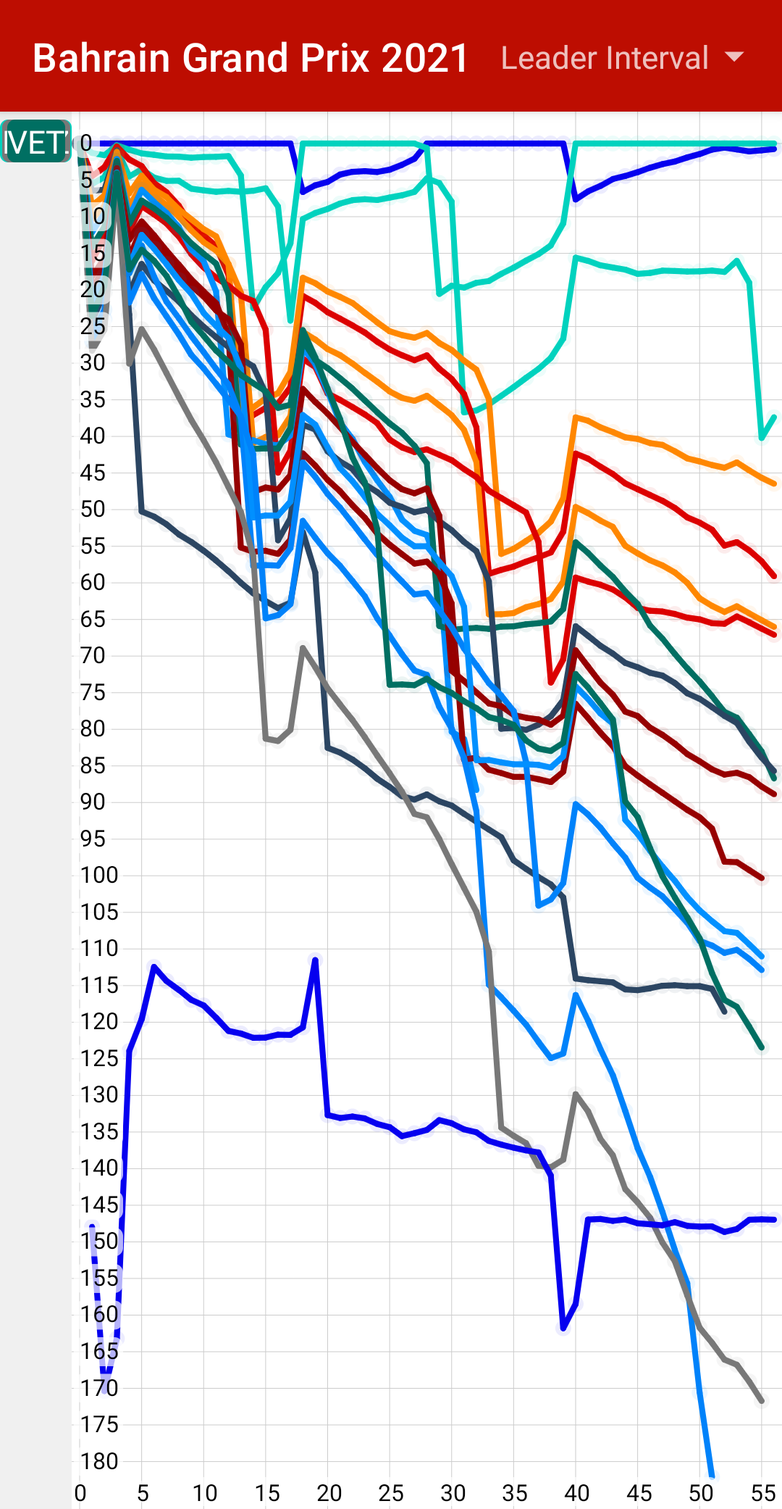
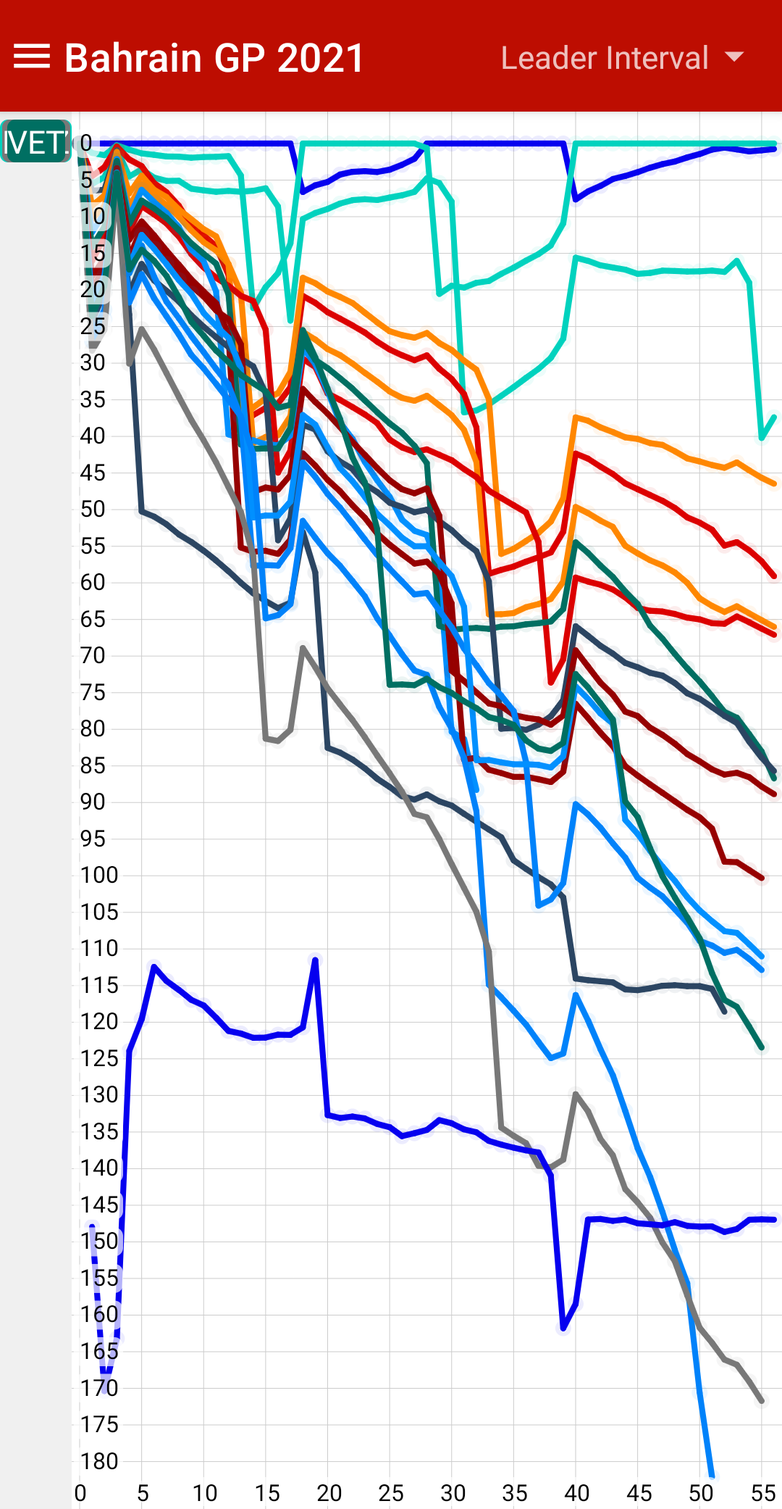
118 add hamburger button for driver selection in charts (#149)
* hamburger menu for driver chart

* 147 preference screen is causing crash (#148)

* add preference screen in UI Test to reproduce bug

* Rewrite preferences screen

* Remove ComposePreferences

* Remove ComposePreferences

* Set Notify Race default to ON

* Spotless format

* Generate version

* remove about screenshot

* Delete com.jventrib.formulainfo.ui.MainScreenTest_about.png

* Add Notifications header

* 118-add-hamburger-button-for-driver-selection-in-charts

* Fix Spotless

Changed region(s): [[0.0306, 0.0312, 0.6111, 0.0624]]

diff --git a/app/src/main/java/com/jventrib/formulainfo/data/sample/ResultSample.kt b/app/src/main/java/com/jventrib/formulainfo/data/sample/ResultSample.kt
@@ -9,7 +9,8 @@ import com.jventrib.formulainfo.model.mapper.ResultMapper
 
 object ResultSample {
 
-    private const val resultContent = "{\"MRData\":{\"xmlns\":\"http:\\/\\/ergast.com\\/mrd\\/1.4\",\"series\":\"f1\",\"url\":\"http://ergast.com/api/f1/2021/1/results.json\",\"limit\":\"30\",\"offset\":\"0\",\"total\":\"20\",\"RaceTable\":{\"season\":\"2021\",\"round\":\"1\",\"Races\":[{\"season\":\"2021\",\"round\":\"1\",\"url\":\"https:\\/\\/en.wikipedia.org\\/wiki\\/2021_Bahrain_Grand_Prix\",\"raceName\":\"Bahrain Grand Prix\",\"Circuit\":{\"circuitId\":\"bahrain\",\"url\":\"http://en.wikipedia.org/wiki/Bahrain_International_Circuit\",\"circuitName\":\"Bahrain International Circuit\",\"Location\":{\"lat\":\"26.0325\",\"long\":\"50.5106\",\"locality\":\"Sakhir\",\"country\":\"Bahrain\"}},\"date\":\"2021-03-28\",\"time\":\"15:00:00Z\",\"Results\":[{\"number\":\"44\",\"position\":\"1\",\"positionText\":\"1\",\"points\":\"25\",\"Driver\":{\"driverId\":\"hamilton\",\"permanentNumber\":\"44\",\"code\":\"HAM\",\"url\":\"http:\\/\\/en.wikipedia.org\\/wiki\\/Lewis_Hamilton\",\"givenName\":\"Lewis\",\"familyName\":\"Hamilton\",\"dateOfBirth\":\"1985-01-07\",\"nationality\":\"British\"},\"Constructor\":{\"constructorId\":\"mercedes\",\"url\":\"http:\\/\\/en.wikipedia.org\\/wiki\\/Mercedes-Benz_in_Formula_One\",\"name\":\"Mercedes\",\"nationality\":\"German\"},\"grid\":\"2\",\"laps\":\"56\",\"status\":\"Finished\",\"Time\":{\"millis\":\"5523897\",\"time\":\"1:32:03.897\"},\"FastestLap\":{\"rank\":\"4\",\"lap\":\"44\",\"Time\":{\"time\":\"1:34.015\"},\"AverageSpeed\":{\"units\":\"kph\",\"speed\":\"207.235\"}}},{\"number\":\"33\",\"position\":\"2\",\"positionText\":\"2\",\"points\":\"18\",\"Driver\":{\"driverId\":\"max_verstappen\",\"permanentNumber\":\"33\",\"code\":\"VER\",\"url\":\"http:\\/\\/en.wikipedia.org\\/wiki\\/Max_Verstappen\",\"givenName\":\"Max\",\"familyName\":\"Verstappen\",\"dateOfBirth\":\"1997-09-30\",\"nationality\":\"Dutch\"},\"Constructor\":{\"constructorId\":\"red_bull\",\"url\":\"http:\\/\\/en.wikipedia.org\\/wiki\\/Red_Bull_Racing\",\"name\":\"Red Bull\",\"nationality\":\"Austrian\"},\"grid\":\"1\",\"laps\":\"56\",\"status\":\"Finished\",\"Time\":{\"millis\":\"5524642\",\"time\":\"+0.745\"},\"FastestLap\":{\"rank\":\"2\",\"lap\":\"41\",\"Time\":{\"time\":\"1:33.228\"},\"AverageSpeed\":{\"units\":\"kph\",\"speed\":\"208.984\"}}},{\"number\":\"77\",\"position\":\"3\",\"positionText\":\"3\",\"points\":\"16\",\"Driver\":{\"driverId\":\"bottas\",\"permanentNumber\":\"77\",\"code\":\"BOT\",\"url\":\"http:\\/\\/en.wikipedia.org\\/wiki\\/Valtteri_Bottas\",\"givenName\":\"Valtteri\",\"familyName\":\"Bottas\",\"dateOfBirth\":\"1989-08-28\",\"nationality\":\"Finnish\"},\"Constructor\":{\"constructorId\":\"mercedes\",\"url\":\"http:\\/\\/en.wikipedia.org\\/wiki\\/Mercedes-Benz_in_Formula_One\",\"name\":\"Mercedes\",\"nationality\":\"German\"},\"grid\":\"3\",\"laps\":\"56\",\"status\":\"Finished\",\"Time\":{\"millis\":\"5561280\",\"time\":\"+37.383\"},\"FastestLap\":{\"rank\":\"1\",\"lap\":\"56\",\"Time\":{\"time\":\"1:32.090\"},\"AverageSpeed\":{\"units\":\"kph\",\"speed\":\"211.566\"}}},{\"number\":\"4\",\"position\":\"4\",\"positionText\":\"4\",\"points\":\"12\",\"Driver\":{\"driverId\":\"norris\",\"permanentNumber\":\"4\",\"code\":\"NOR\",\"url\":\"http:\\/\\/en.wikipedia.org\\/wiki\\/Lando_Norris\",\"givenName\":\"Lando\",\"familyName\":\"Norris\",\"dateOfBirth\":\"1999-11-13\",\"nationality\":\"British\"},\"Constructor\":{\"constructorId\":\"mclaren\",\"url\":\"http:\\/\\/en.wikipedia.org\\/wiki\\/McLaren\",\"name\":\"McLaren\",\"nationality\":\"British\"},\"grid\":\"7\",\"laps\":\"56\",\"status\":\"Finished\",\"Time\":{\"millis\":\"5570363\",\"time\":\"+46.466\"},\"FastestLap\":{\"rank\":\"6\",\"lap\":\"38\",\"Time\":{\"time\":\"1:34.396\"},\"AverageSpeed\":{\"units\":\"kph\",\"speed\":\"206.398\"}}},{\"number\":\"11\",\"position\":\"5\",\"positionText\":\"5\",\"points\":\"10\",\"Driver\":{\"driverId\":\"perez\",\"permanentNumber\":\"11\",\"code\":\"PER\",\"url\":\"http:\\/\\/en.wikipedia.org\\/wiki\\/Sergio_P%C3%A9rez\",\"givenName\":\"Sergio\",\"familyName\":\"Pérez\",\"dateOfBirth\":\"1990-01-26\",\"nationality\":\"Mexican\"},\"Constructor\":{\"constructorId\":\"red_bull\",\"url\":\"http:\\/\\/en.wikipedia.org\\/wiki\\/Red_Bull_Racing\",\"name\":\"Red Bull\",\"nationality\":\"Austrian\"},\"grid\":\"0\",\"laps\":\"56\",\"status\":\"Finished\",\"Time\":{\"millis\":\"5575944\",\"time\":\"+52.047\"},\"FastestLap\":{\"rank\":\"3\",\"lap\":\"44\",\"Time\":{\"time\":\"1:33.970\"},\"AverageSpeed\":{\"units\":\"kph\",\"speed\":\"207.334\"}}},{\"number\":\"16\",\"position\":\"6\",\"positionText\":\"6\",\"points\":\"8\",\"Driver\":{\"driverId\":\"leclerc\",\"permanentNumber\":\"16\",\"code\":\"LEC\",\"url\":\"http:\\/\\/en.wikipedia.org\\/wiki\\/Charles_Leclerc\",\"givenName\":\"Charles\",\"familyName\":\"Leclerc\",\"dateOfBirth\":\"1997-10-16\",\"nationality\":\"Monegasque\"},\"Constructor\":{\"constructorId\":\"ferrari\",\"url\":\"http:\\/\\/en.wikipedia.org\\/wiki\\/Scuderia_Ferrari\",\"name\":\"Ferrari\",\"nationality\":\"Italian\"},\"grid\":\"4\",\"laps\":\"56\",\"status\":\"Finished\",\"Time\":{\"millis\":\"5582987\",\"time\":\"+59.090\"},\"FastestLap\":{\"rank\":\"11\",\"lap\":\"39\",\"Time\":{\"time\":\"1:34.988\"},\"AverageSpeed\":{\"units\":\"kph\",\"speed\":\"205.112\"}}},{\"number\":\"3\",\"position\":\"7\",\"positionText\":\"7\",\"points\":\"6\",\"Driver\":{\"driverId\":\"ricciardo\",\"permanentNumber\":\"3\",\"code\":\"RIC\",\"url\":\"http:\\/\\/en.wikipedia.org\\/wiki\\/Daniel_Ricciardo\",\"givenName\":\"Daniel\",\"familyName\":\"Ricciardo\",\"dateOfBirth\":\"1989-07-01\",\"nationality\":\"Australian\"},\"Constructor\":{\"constructorId\":\"mclaren\",\"url\":\"http:\\/\\/en.wikipedia.org\\/wiki\\/McLaren\",\"name\":\"McLaren\",\"nationality\":\"British\"},\"grid\":\"6\",\"laps\":\"56\",\"status\":\"Finished\",\"Time\":{\"millis\":\"5589901\",\"time\":\"+66.004\"},\"FastestLap\":{\"rank\":\"10\",\"lap\":\"36\",\"Time\":{\"time\":\"1:34.932\"},\"AverageSpeed\":{\"units\":\"kph\",\"speed\":\"205.233\"}}},{\"number\":\"55\",\"position\":\"8\",\"positionText\":\"8\",\"points\":\"4\",\"Driver\":{\"driverId\":\"sainz\",\"permanentNumber\":\"55\",\"code\":\"SAI\",\"url\":\"http:\\/\\/en.wikipedia.org\\/wiki\\/Carlos_Sainz_Jr.\",\"givenName\":\"Carlos\",\"familyName\":\"Sainz\",\"dateOfBirth\":\"1994-09-01\",\"nationality\":\"Spanish\"},\"Constructor\":{\"constructorId\":\"ferrari\",\"url\":\"http:\\/\\/en.wikipedia.org\\/wiki\\/Scuderia_Ferrari\",\"name\":\"Ferrari\",\"nationality\":\"Italian\"},\"grid\":\"8\",\"laps\":\"56\",\"status\":\"Finished\",\"Time\":{\"millis\":\"5590997\",\"time\":\"+67.100\"},\"FastestLap\":{\"rank\":\"7\",\"lap\":\"48\",\"Time\":{\"time\":\"1:34.509\"},\"AverageSpeed\":{\"units\":\"kph\",\"speed\":\"206.151\"}}},{\"number\":\"22\",\"position\":\"9\",\"positionText\":\"9\",\"points\":\"2\",\"Driver\":{\"driverId\":\"tsunoda\",\"permanentNumber\":\"22\",\"code\":\"TSU\",\"url\":\"http:\\/\\/en.wikipedia.org\\/wiki\\/Yuki_Tsunoda\",\"givenName\":\"Yuki\",\"familyName\":\"Tsunoda\",\"dateOfBirth\":\"2000-05-11\",\"nationality\":\"Japanese\"},\"Constructor\":{\"constructorId\":\"alphatauri\",\"url\":\"http:\\/\\/en.wikipedia.org\\/wiki\\/Scuderia_AlphaTauri\",\"name\":\"AlphaTauri\",\"nationality\":\"Italian\"},\"grid\":\"13\",\"laps\":\"56\",\"status\":\"Finished\",\"Time\":{\"millis\":\"5609589\",\"time\":\"+85.692\"},\"FastestLap\":{\"rank\":\"8\",\"lap\":\"38\",\"Time\":{\"time\":\"1:34.761\"},\"AverageSpeed\":{\"units\":\"kph\",\"speed\":\"205.603\"}}},{\"number\":\"18\",\"position\":\"10\",\"positionText\":\"10\",\"points\":\"1\",\"Driver\":{\"driverId\":\"stroll\",\"permanentNumber\":\"18\",\"code\":\"STR\",\"url\":\"http:\\/\\/en.wikipedia.org\\/wiki\\/Lance_Stroll\",\"givenName\":\"Lance\",\"familyName\":\"Stroll\",\"dateOfBirth\":\"1998-10-29\",\"nationality\":\"Canadian\"},\"Constructor\":{\"constructorId\":\"aston_martin\",\"url\":\"http:\\/\\/en.wikipedia.org\\/wiki\\/Aston_Martin_in_Formula_One\",\"name\":\"Aston Martin\",\"nationality\":\"British\"},\"grid\":\"10\",\"laps\":\"56\",\"status\":\"Finished\",\"Time\":{\"millis\":\"5610610\",\"time\":\"+86.713\"},\"FastestLap\":{\"rank\":\"9\",\"lap\":\"31\",\"Time\":{\"time\":\"1:34.865\"},\"AverageSpeed\":{\"units\":\"kph\",\"speed\":\"205.378\"}}},{\"number\":\"7\",\"position\":\"11\",\"positionText\":\"11\",\"points\":\"0\",\"Driver\":{\"driverId\":\"raikkonen\",\"permanentNumber\":\"7\",\"code\":\"RAI\",\"url\":\"http:\\/\\/en.wikipedia.org\\/wiki\\/Kimi_R%C3%A4ikk%C3%B6nen\",\"givenName\":\"Kimi\",\"familyName\":\"Räikkönen\",\"dateOfBirth\":\"1979-10-17\",\"nationality\":\"Finnish\"},\"Constructor\":{\"constructorId\":\"alfa\",\"url\":\"http:\\/\\/en.wikipedia.org\\/wiki\\/Alfa_Romeo_in_Formula_One\",\"name\":\"Alfa Romeo\",\"nationality\":\"Swiss\"},\"grid\":\"14\",\"laps\":\"56\",\"status\":\"Finished\",\"Time\":{\"millis\":\"5612761\",\"time\":\"+88.864\"},\"FastestLap\":{\"rank\":\"14\",\"lap\":\"45\",\"Time\":{\"time\":\"1:35.192\"},\"AverageSpeed\":{\"units\":\"kph\",\"speed\":\"204.672\"}}},{\"number\":\"99\",\"position\":\"12\",\"positionText\":\"12\",\"points\":\"0\",\"Driver\":{\"driverId\":\"giovinazzi\",\"permanentNumber\":\"99\",\"code\":\"GIO\",\"url\":\"http:\\/\\/en.wikipedia.org\\/wiki\\/Antonio_Giovinazzi\",\"givenName\":\"Antonio\",\"familyName\":\"Giovinazzi\",\"dateOfBirth\":\"1993-12-14\",\"nationality\":\"Italian\"},\"Constructor\":{\"constructorId\":\"alfa\",\"url\":\"http:\\/\\/en.wikipedia.org\\/wiki\\/Alfa_Romeo_in_Formula_One\",\"name\":\"Alfa Romeo\",\"nationality\":\"Swiss\"},\"grid\":\"12\",\"laps\":\"55\",\"status\":\"+1 Lap\",\"FastestLap\":{\"rank\":\"13\",\"lap\":\"32\",\"Time\":{\"time\":\"1:35.122\"},\"AverageSpeed\":{\"units\":\"kph\",\"speed\":\"204.823\"}}},{\"number\":\"31\",\"position\":\"13\",\"positionText\":\"13\",\"points\":\"0\",\"Driver\":{\"driverId\":\"ocon\",\"permanentNumber\":\"31\",\"code\":\"OCO\",\"url\":\"http:\\/\\/en.wikipedia.org\\/wiki\\/Esteban_Ocon\",\"givenName\":\"Esteban\",\"familyName\":\"Ocon\",\"dateOfBirth\":\"1996-09-17\",\"nationality\":\"French\"},\"Constructor\":{\"constructorId\":\"alpine\",\"url\":\"http:\\/\\/en.wikipedia.org\\/wiki\\/Alpine_F1_Team\",\"name\":\"Alpine F1 Team\",\"nationality\":\"French\"},\"grid\":\"16\",\"laps\":\"55\",\"status\":\"+1 Lap\",\"FastestLap\":{\"rank\":\"15\",\"lap\":\"33\",\"Time\":{\"time\":\"1:35.250\"},\"AverageSpeed\":{\"units\":\"kph\",\"speed\":\"204.548\"}}},{\"number\":\"63\",\"position\":\"14\",\"positionText\":\"14\",\"points\":\"0\",\"Driver\":{\"driverId\":\"russell\",\"permanentNumber\":\"63\",\"code\":\"RUS\",\"url\":\"http:\\/\\/en.wikipedia.org\\/wiki\\/George_Russell_%28racing_driver%29\",\"givenName\":\"George\",\"familyName\":\"Russell\",\"dateOfBirth\":\"1998-02-15\",\"nationality\":\"British\"},\"Constructor\":{\"constructorId\":\"williams\",\"url\":\"http:\\/\\/en.wikipedia.org\\/wiki\\/Williams_Grand_Prix_Engineering\",\"name\":\"Williams\",\"nationality\":\"British\"},\"grid\":\"15\",\"laps\":\"55\",\"status\":\"+1 Lap\",\"FastestLap\":{\"rank\":\"12\",\"lap\":\"40\",\"Time\":{\"time\":\"1:35.036\"},\"AverageSpeed\":{\"units\":\"kph\",\"speed\":\"205.008\"}}},{\"number\":\"5\",\"position\":\"15\",\"positionText\":\"15\",\"points\":\"0\",\"Driver\":{\"driverId\":\"vettel\",\"permanentNumber\":\"5\",\"code\":\"VET\",\"url\":\"http:\\/\\/en.wikipedia.org\\/wiki\\/Sebastian_Vettel\",\"givenName\":\"Sebastian\",\"familyName\":\"Vettel\",\"dateOfBirth\":\"1987-07-03\",\"nationality\":\"German\"},\"Constructor\":{\"constructorId\":\"aston_martin\",\"url\":\"http:\\/\\/en.wikipedia.org\\/wiki\\/Aston_Martin_in_Formula_One\",\"name\":\"Aston Martin\",\"nationality\":\"British\"},\"grid\":\"20\",\"laps\":\"55\",\"status\":\"+1 Lap\",\"FastestLap\":{\"rank\":\"16\",\"lap\":\"26\",\"Time\":{\"time\":\"1:35.566\"},\"AverageSpeed\":{\"units\":\"kph\",\"speed\":\"203.871\"}}},{\"number\":\"47\",\"position\":\"16\",\"positionText\":\"16\",\"points\":\"0\",\"Driver\":{\"driverId\":\"mick_schumacher\",\"permanentNumber\":\"47\",\"code\":\"MSC\",\"url\":\"http:\\/\\/en.wikipedia.org\\/wiki\\/Mick_Schumacher\",\"givenName\":\"Mick\",\"familyName\":\"Schumacher\",\"dateOfBirth\":\"1999-03-22\",\"nationality\":\"German\"},\"Constructor\":{\"constructorId\":\"haas\",\"url\":\"http:\\/\\/en.wikipedia.org\\/wiki\\/Haas_F1_Team\",\"name\":\"Haas F1 Team\",\"nationality\":\"American\"},\"grid\":\"18\",\"laps\":\"55\",\"status\":\"+1 Lap\",\"FastestLap\":{\"rank\":\"18\",\"lap\":\"38\",\"Time\":{\"time\":\"1:36.134\"},\"AverageSpeed\":{\"units\":\"kph\",\"speed\":\"202.667\"}}},{\"number\":\"10\",\"position\":\"17\",\"positionText\":\"17\",\"points\":\"0\",\"Driver\":{\"driverId\":\"gasly\",\"permanentNumber\":\"10\",\"code\":\"GAS\",\"url\":\"http:\\/\\/en.wikipedia.org\\/wiki\\/Pierre_Gasly\",\"givenName\":\"Pierre\",\"familyName\":\"Gasly\",\"dateOfBirth\":\"1996-02-07\",\"nationality\":\"French\"},\"Constructor\":{\"constructorId\":\"alphatauri\",\"url\":\"http:\\/\\/en.wikipedia.org\\/wiki\\/Scuderia_AlphaTauri\",\"name\":\"AlphaTauri\",\"nationality\":\"Italian\"},\"grid\":\"5\",\"laps\":\"52\",\"status\":\"Retired\",\"FastestLap\":{\"rank\":\"5\",\"lap\":\"48\",\"Time\":{\"time\":\"1:34.090\"},\"AverageSpeed\":{\"units\":\"kph\",\"speed\":\"207.069\"}}},{\"number\":\"6\",\"position\":\"18\",\"positionText\":\"18\",\"points\":\"0\",\"Driver\":{\"driverId\":\"latifi\",\"permanentNumber\":\"6\",\"code\":\"LAT\",\"url\":\"http:\\/\\/en.wikipedia.org\\/wiki\\/Nicholas_Latifi\",\"givenName\":\"Nicholas\",\"familyName\":\"Latifi\",\"dateOfBirth\":\"1995-06-29\",\"nationality\":\"Canadian\"},\"Constructor\":{\"constructorId\":\"williams\",\"url\":\"http:\\/\\/en.wikipedia.org\\/wiki\\/Williams_Grand_Prix_Engineering\",\"name\":\"Williams\",\"nationality\":\"British\"},\"grid\":\"17\",\"laps\":\"51\",\"status\":\"Retired\",\"FastestLap\":{\"rank\":\"19\",\"lap\":\"16\",\"Time\":{\"time\":\"1:36.602\"},\"AverageSpeed\":{\"units\":\"kph\",\"speed\":\"201.685\"}}},{\"number\":\"14\",\"position\":\"19\",\"positionText\":\"R\",\"points\":\"0\",\"Driver\":{\"driverId\":\"alonso\",\"permanentNumber\":\"14\",\"code\":\"ALO\",\"url\":\"http:\\/\\/en.wikipedia.org\\/wiki\\/Fernando_Alonso\",\"givenName\":\"Fernando\",\"familyName\":\"Alonso\",\"dateOfBirth\":\"1981-07-29\",\"nationality\":\"Spanish\"},\"Constructor\":{\"constructorId\":\"alpine\",\"url\":\"http:\\/\\/en.wikipedia.org\\/wiki\\/Alpine_F1_Team\",\"name\":\"Alpine F1 Team\",\"nationality\":\"French\"},\"grid\":\"9\",\"laps\":\"32\",\"status\":\"Brakes\",\"FastestLap\":{\"rank\":\"17\",\"lap\":\"31\",\"Time\":{\"time\":\"1:36.063\"},\"AverageSpeed\":{\"units\":\"kph\",\"speed\":\"202.816\"}}},{\"number\":\"9\",\"position\":\"20\",\"positionText\":\"R\",\"points\":\"0\",\"Driver\":{\"driverId\":\"mazepin\",\"permanentNumber\":\"9\",\"code\":\"MAZ\",\"url\":\"http:\\/\\/en.wikipedia.org\\/wiki\\/Nikita_Mazepin\",\"givenName\":\"Nikita\",\"familyName\":\"Mazepin\",\"dateOfBirth\":\"1999-03-02\",\"nationality\":\"Russian\"},\"Constructor\":{\"constructorId\":\"haas\",\"url\":\"http:\\/\\/en.wikipedia.org\\/wiki\\/Haas_F1_Team\",\"name\":\"Haas F1 Team\",\"nationality\":\"American\"},\"grid\":\"19\",\"laps\":\"0\",\"status\":\"Accident\"}]}]}}}"
+    private const val resultContent =
+        """{"MRData":{"xmlns":"http:\/\/ergast.com\/mrd\/1.4","series":"f1","url":"http://ergast.com/api/f1/2021/1/results.json","limit":"30","offset":"0","total":"20","RaceTable":{"season":"2021","round":"1","Races":[{"season":"2021","round":"1","url":"https:\/\/en.wikipedia.org\/wiki\/2021_Bahrain_Grand_Prix","raceName":"Bahrain Grand Prix","Circuit":{"circuitId":"bahrain","url":"http://en.wikipedia.org/wiki/Bahrain_International_Circuit","circuitName":"Bahrain International Circuit","Location":{"lat":"26.0325","long":"50.5106","locality":"Sakhir","country":"Bahrain"}},"date":"2021-03-28","time":"15:00:00Z","Results":[{"number":"44","position":"1","positionText":"1","points":"25","Driver":{"driverId":"hamilton","permanentNumber":"44","code":"HAM","url":"http:\/\/en.wikipedia.org\/wiki\/Lewis_Hamilton","givenName":"Lewis","familyName":"Hamilton","dateOfBirth":"1985-01-07","nationality":"British"},"Constructor":{"constructorId":"mercedes","url":"http:\/\/en.wikipedia.org\/wiki\/Mercedes-Benz_in_Formula_One","name":"Mercedes","nationality":"German"},"grid":"2","laps":"56","status":"Finished","Time":{"millis":"5523897","time":"1:32:03.897"},"FastestLap":{"rank":"4","lap":"44","Time":{"time":"1:34.015"},"AverageSpeed":{"units":"kph","speed":"207.235"}}},{"number":"33","position":"2","positionText":"2","points":"18","Driver":{"driverId":"max_verstappen","permanentNumber":"33","code":"VER","url":"http:\/\/en.wikipedia.org\/wiki\/Max_Verstappen","givenName":"Max","familyName":"Verstappen","dateOfBirth":"1997-09-30","nationality":"Dutch"},"Constructor":{"constructorId":"red_bull","url":"http:\/\/en.wikipedia.org\/wiki\/Red_Bull_Racing","name":"Red Bull","nationality":"Austrian"},"grid":"1","laps":"56","status":"Finished","Time":{"millis":"5524642","time":"+0.745"},"FastestLap":{"rank":"2","lap":"41","Time":{"time":"1:33.228"},"AverageSpeed":{"units":"kph","speed":"208.984"}}},{"number":"77","position":"3","positionText":"3","points":"16","Driver":{"driverId":"bottas","permanentNumber":"77","code":"BOT","url":"http:\/\/en.wikipedia.org\/wiki\/Valtteri_Bottas","givenName":"Valtteri","familyName":"Bottas","dateOfBirth":"1989-08-28","nationality":"Finnish"},"Constructor":{"constructorId":"mercedes","url":"http:\/\/en.wikipedia.org\/wiki\/Mercedes-Benz_in_Formula_One","name":"Mercedes","nationality":"German"},"grid":"3","laps":"56","status":"Finished","Time":{"millis":"5561280","time":"+37.383"},"FastestLap":{"rank":"1","lap":"56","Time":{"time":"1:32.090"},"AverageSpeed":{"units":"kph","speed":"211.566"}}},{"number":"4","position":"4","positionText":"4","points":"12","Driver":{"driverId":"norris","permanentNumber":"4","code":"NOR","url":"http:\/\/en.wikipedia.org\/wiki\/Lando_Norris","givenName":"Lando","familyName":"Norris","dateOfBirth":"1999-11-13","nationality":"British"},"Constructor":{"constructorId":"mclaren","url":"http:\/\/en.wikipedia.org\/wiki\/McLaren","name":"McLaren","nationality":"British"},"grid":"7","laps":"56","status":"Finished","Time":{"millis":"5570363","time":"+46.466"},"FastestLap":{"rank":"6","lap":"38","Time":{"time":"1:34.396"},"AverageSpeed":{"units":"kph","speed":"206.398"}}},{"number":"11","position":"5","positionText":"5","points":"10","Driver":{"driverId":"perez","permanentNumber":"11","code":"PER","url":"http:\/\/en.wikipedia.org\/wiki\/Sergio_P%C3%A9rez","givenName":"Sergio","familyName":"Pérez","dateOfBirth":"1990-01-26","nationality":"Mexican"},"Constructor":{"constructorId":"red_bull","url":"http:\/\/en.wikipedia.org\/wiki\/Red_Bull_Racing","name":"Red Bull","nationality":"Austrian"},"grid":"0","laps":"56","status":"Finished","Time":{"millis":"5575944","time":"+52.047"},"FastestLap":{"rank":"3","lap":"44","Time":{"time":"1:33.970"},"AverageSpeed":{"units":"kph","speed":"207.334"}}},{"number":"16","position":"6","positionText":"6","points":"8","Driver":{"driverId":"leclerc","permanentNumber":"16","code":"LEC","url":"http:\/\/en.wikipedia.org\/wiki\/Charles_Leclerc","givenName":"Charles","familyName":"Leclerc","dateOfBirth":"1997-10-16","nationality":"Monegasque"},"Constructor":{"constructorId":"ferrari","url":"http:\/\/en.wikipedia.org\/wiki\/Scuderia_Ferrari","name":"Ferrari","nationality":"Italian"},"grid":"4","laps":"56","status":"Finished","Time":{"millis":"5582987","time":"+59.090"},"FastestLap":{"rank":"11","lap":"39","Time":{"time":"1:34.988"},"AverageSpeed":{"units":"kph","speed":"205.112"}}},{"number":"3","position":"7","positionText":"7","points":"6","Driver":{"driverId":"ricciardo","permanentNumber":"3","code":"RIC","url":"http:\/\/en.wikipedia.org\/wiki\/Daniel_Ricciardo","givenName":"Daniel","familyName":"Ricciardo","dateOfBirth":"1989-07-01","nationality":"Australian"},"Constructor":{"constructorId":"mclaren","url":"http:\/\/en.wikipedia.org\/wiki\/McLaren","name":"McLaren","nationality":"British"},"grid":"6","laps":"56","status":"Finished","Time":{"millis":"5589901","time":"+66.004"},"FastestLap":{"rank":"10","lap":"36","Time":{"time":"1:34.932"},"AverageSpeed":{"units":"kph","speed":"205.233"}}},{"number":"55","position":"8","positionText":"8","points":"4","Driver":{"driverId":"sainz","permanentNumber":"55","code":"SAI","url":"http:\/\/en.wikipedia.org\/wiki\/Carlos_Sainz_Jr.","givenName":"Carlos","familyName":"Sainz","dateOfBirth":"1994-09-01","nationality":"Spanish"},"Constructor":{"constructorId":"ferrari","url":"http:\/\/en.wikipedia.org\/wiki\/Scuderia_Ferrari","name":"Ferrari","nationality":"Italian"},"grid":"8","laps":"56","status":"Finished","Time":{"millis":"5590997","time":"+67.100"},"FastestLap":{"rank":"7","lap":"48","Time":{"time":"1:34.509"},"AverageSpeed":{"units":"kph","speed":"206.151"}}},{"number":"22","position":"9","positionText":"9","points":"2","Driver":{"driverId":"tsunoda","permanentNumber":"22","code":"TSU","url":"http:\/\/en.wikipedia.org\/wiki\/Yuki_Tsunoda","givenName":"Yuki","familyName":"Tsunoda","dateOfBirth":"2000-05-11","nationality":"Japanese"},"Constructor":{"constructorId":"alphatauri","url":"http:\/\/en.wikipedia.org\/wiki\/Scuderia_AlphaTauri","name":"AlphaTauri","nationality":"Italian"},"grid":"13","laps":"56","status":"Finished","Time":{"millis":"5609589","time":"+85.692"},"FastestLap":{"rank":"8","lap":"38","Time":{"time":"1:34.761"},"AverageSpeed":{"units":"kph","speed":"205.603"}}},{"number":"18","position":"10","positionText":"10","points":"1","Driver":{"driverId":"stroll","permanentNumber":"18","code":"STR","url":"http:\/\/en.wikipedia.org\/wiki\/Lance_Stroll","givenName":"Lance","familyName":"Stroll","dateOfBirth":"1998-10-29","nationality":"Canadian"},"Constructor":{"constructorId":"aston_martin","url":"http:\/\/en.wikipedia.org\/wiki\/Aston_Martin_in_Formula_One","name":"Aston Martin","nationality":"British"},"grid":"10","laps":"56","status":"Finished","Time":{"millis":"5610610","time":"+86.713"},"FastestLap":{"rank":"9","lap":"31","Time":{"time":"1:34.865"},"AverageSpeed":{"units":"kph","speed":"205.378"}}},{"number":"7","position":"11","positionText":"11","points":"0","Driver":{"driverId":"raikkonen","permanentNumber":"7","code":"RAI","url":"http:\/\/en.wikipedia.org\/wiki\/Kimi_R%C3%A4ikk%C3%B6nen","givenName":"Kimi","familyName":"Räikkönen","dateOfBirth":"1979-10-17","nationality":"Finnish"},"Constructor":{"constructorId":"alfa","url":"http:\/\/en.wikipedia.org\/wiki\/Alfa_Romeo_in_Formula_One","name":"Alfa Romeo","nationality":"Swiss"},"grid":"14","laps":"56","status":"Finished","Time":{"millis":"5612761","time":"+88.864"},"FastestLap":{"rank":"14","lap":"45","Time":{"time":"1:35.192"},"AverageSpeed":{"units":"kph","speed":"204.672"}}},{"number":"99","position":"12","positionText":"12","points":"0","Driver":{"driverId":"giovinazzi","permanentNumber":"99","code":"GIO","url":"http:\/\/en.wikipedia.org\/wiki\/Antonio_Giovinazzi","givenName":"Antonio","familyName":"Giovinazzi","dateOfBirth":"1993-12-14","nationality":"Italian"},"Constructor":{"constructorId":"alfa","url":"http:\/\/en.wikipedia.org\/wiki\/Alfa_Romeo_in_Formula_One","name":"Alfa Romeo","nationality":"Swiss"},"grid":"12","laps":"55","status":"+1 Lap","FastestLap":{"rank":"13","lap":"32","Time":{"time":"1:35.122"},"AverageSpeed":{"units":"kph","speed":"204.823"}}},{"number":"31","position":"13","positionText":"13","points":"0","Driver":{"driverId":"ocon","permanentNumber":"31","code":"OCO","url":"http:\/\/en.wikipedia.org\/wiki\/Esteban_Ocon","givenName":"Esteban","familyName":"Ocon","dateOfBirth":"1996-09-17","nationality":"French"},"Constructor":{"constructorId":"alpine","url":"http:\/\/en.wikipedia.org\/wiki\/Alpine_F1_Team","name":"Alpine F1 Team","nationality":"French"},"grid":"16","laps":"55","status":"+1 Lap","FastestLap":{"rank":"15","lap":"33","Time":{"time":"1:35.250"},"AverageSpeed":{"units":"kph","speed":"204.548"}}},{"number":"63","position":"14","positionText":"14","points":"0","Driver":{"driverId":"russell","permanentNumber":"63","code":"RUS","url":"http:\/\/en.wikipedia.org\/wiki\/George_Russell_%28racing_driver%29","givenName":"George","familyName":"Russell","dateOfBirth":"1998-02-15","nationality":"British"},"Constructor":{"constructorId":"williams","url":"http:\/\/en.wikipedia.org\/wiki\/Williams_Grand_Prix_Engineering","name":"Williams","nationality":"British"},"grid":"15","laps":"55","status":"+1 Lap","FastestLap":{"rank":"12","lap":"40","Time":{"time":"1:35.036"},"AverageSpeed":{"units":"kph","speed":"205.008"}}},{"number":"5","position":"15","positionText":"15","points":"0","Driver":{"driverId":"vettel","permanentNumber":"5","code":"VET","url":"http:\/\/en.wikipedia.org\/wiki\/Sebastian_Vettel","givenName":"Sebastian","familyName":"Vettel","dateOfBirth":"1987-07-03","nationality":"German"},"Constructor":{"constructorId":"aston_martin","url":"http:\/\/en.wikipedia.org\/wiki\/Aston_Martin_in_Formula_One","name":"Aston Martin","nationality":"British"},"grid":"20","laps":"55","status":"+1 Lap","FastestLap":{"rank":"16","lap":"26","Time":{"time":"1:35.566"},"AverageSpeed":{"units":"kph","speed":"203.871"}}},{"number":"47","position":"16","positionText":"16","points":"0","Driver":{"driverId":"mick_schumacher","permanentNumber":"47","code":"MSC","url":"http:\/\/en.wikipedia.org\/wiki\/Mick_Schumacher","givenName":"Mick","familyName":"Schumacher","dateOfBirth":"1999-03-22","nationality":"German"},"Constructor":{"constructorId":"haas","url":"http:\/\/en.wikipedia.org\/wiki\/Haas_F1_Team","name":"Haas F1 Team","nationality":"American"},"grid":"18","laps":"55","status":"+1 Lap","FastestLap":{"rank":"18","lap":"38","Time":{"time":"1:36.134"},"AverageSpeed":{"units":"kph","speed":"202.667"}}},{"number":"10","position":"17","positionText":"17","points":"0","Driver":{"driverId":"gasly","permanentNumber":"10","code":"GAS","url":"http:\/\/en.wikipedia.org\/wiki\/Pierre_Gasly","givenName":"Pierre","familyName":"Gasly","dateOfBirth":"1996-02-07","nationality":"French"},"Constructor":{"constructorId":"alphatauri","url":"http:\/\/en.wikipedia.org\/wiki\/Scuderia_AlphaTauri","name":"AlphaTauri","nationality":"Italian"},"grid":"5","laps":"52","status":"Retired","FastestLap":{"rank":"5","lap":"48","Time":{"time":"1:34.090"},"AverageSpeed":{"units":"kph","speed":"207.069"}}},{"number":"6","position":"18","positionText":"18","points":"0","Driver":{"driverId":"latifi","permanentNumber":"6","code":"LAT","url":"http:\/\/en.wikipedia.org\/wiki\/Nicholas_Latifi","givenName":"Nicholas","familyName":"Latifi","dateOfBirth":"1995-06-29","nationality":"Canadian"},"Constructor":{"constructorId":"williams","url":"http:\/\/en.wikipedia.org\/wiki\/Williams_Grand_Prix_Engineering","name":"Williams","nationality":"British"},"grid":"17","laps":"51","status":"Retired","FastestLap":{"rank":"19","lap":"16","Time":{"time":"1:36.602"},"AverageSpeed":{"units":"kph","speed":"201.685"}}},{"number":"14","position":"19","positionText":"R","points":"0","Driver":{"driverId":"alonso","permanentNumber":"14","code":"ALO","url":"http:\/\/en.wikipedia.org\/wiki\/Fernando_Alonso","givenName":"Fernando","familyName":"Alonso","dateOfBirth":"1981-07-29","nationality":"Spanish"},"Constructor":{"constructorId":"alpine","url":"http:\/\/en.wikipedia.org\/wiki\/Alpine_F1_Team","name":"Alpine F1 Team","nationality":"French"},"grid":"9","laps":"32","status":"Brakes","FastestLap":{"rank":"17","lap":"31","Time":{"time":"1:36.063"},"AverageSpeed":{"units":"kph","speed":"202.816"}}},{"number":"9","position":"20","positionText":"R","points":"0","Driver":{"driverId":"mazepin","permanentNumber":"9","code":"MAZ","url":"http:\/\/en.wikipedia.org\/wiki\/Nikita_Mazepin","givenName":"Nikita","familyName":"Mazepin","dateOfBirth":"1999-03-02","nationality":"Russian"},"Constructor":{"constructorId":"haas","url":"http:\/\/en.wikipedia.org\/wiki\/Haas_F1_Team","name":"Haas F1 Team","nationality":"American"},"grid":"19","laps":"0","status":"Accident"}]}]}}}"""
 
     fun getLapsPerResults(): Map<Result, List<Lap>> =
         get202101Results().associateWith {

diff --git a/app/src/main/java/com/jventrib/formulainfo/ui/common/composable/TopAppBar.kt b/app/src/main/java/com/jventrib/formulainfo/ui/common/composable/TopAppBar.kt
@@ -1,0 +1,82 @@
+package com.jventrib.formulainfo.ui.common.composable
+
+import androidx.compose.foundation.layout.Arrangement
+import androidx.compose.foundation.layout.Row
+import androidx.compose.foundation.layout.RowScope
+import androidx.compose.foundation.layout.Spacer
+import androidx.compose.foundation.layout.fillMaxHeight
+import androidx.compose.foundation.layout.width
+import androidx.compose.material.AppBarDefaults
+import androidx.compose.material.ContentAlpha
+import androidx.compose.material.LocalContentAlpha
+import androidx.compose.material.MaterialTheme
+import androidx.compose.material.ProvideTextStyle
+import androidx.compose.material.TopAppBar
+import androidx.compose.material.contentColorFor
+import androidx.compose.material.primarySurface
+import androidx.compose.runtime.Composable
+import androidx.compose.runtime.CompositionLocalProvider
+import androidx.compose.ui.Alignment
+import androidx.compose.ui.Modifier
+import androidx.compose.ui.graphics.Color
+import androidx.compose.ui.unit.Dp
+import androidx.compose.ui.unit.dp
+
+@Composable
+fun FITopAppBar(
+    title: @Composable () -> Unit,
+    modifier: Modifier = Modifier,
+    navigationIcon: @Composable (() -> Unit)? = null,
+    actions: @Composable RowScope.() -> Unit = {},
+    backgroundColor: Color = MaterialTheme.colors.primarySurface,
+    contentColor: Color = contentColorFor(backgroundColor),
+    elevation: Dp = AppBarDefaults.TopAppBarElevation
+) {
+    TopAppBar() {
+        if (navigationIcon == null) {
+            Spacer(TitleInsetWithoutIcon)
+        } else {
+            Row(TitleIconModifier, verticalAlignment = Alignment.CenterVertically) {
+                CompositionLocalProvider(
+                    LocalContentAlpha provides ContentAlpha.high,
+                    content = navigationIcon
+                )
+            }
+        }
+
+        Row(
+            Modifier.fillMaxHeight().weight(1f),
+            verticalAlignment = Alignment.CenterVertically
+        ) {
+            ProvideTextStyle(value = MaterialTheme.typography.h6) {
+                CompositionLocalProvider(
+                    LocalContentAlpha provides ContentAlpha.high,
+                    content = title
+                )
+            }
+        }
+
+        CompositionLocalProvider(LocalContentAlpha provides ContentAlpha.medium) {
+            Row(
+                Modifier.fillMaxHeight(),
+                horizontalArrangement = Arrangement.End,
+                verticalAlignment = Alignment.CenterVertically,
+                content = actions
+            )
+        }
+    }
+}
+
+private val AppBarHeight = 56.dp
+// TODO: this should probably be part of the touch target of the start and end icons, clarify this
+private val AppBarHorizontalPadding = 4.dp
+// Start inset for the title when there is no navigation icon provided
+private val TitleInsetWithoutIcon = Modifier.width(16.dp - AppBarHorizontalPadding)
+// Start inset for the title when there is a navigation icon provided
+private val TitleIconModifier = Modifier.fillMaxHeight()
+    .width(72.dp - AppBarHorizontalPadding)
+
+// The gap on all sides between the FAB and the cutout
+private val BottomAppBarCutoutOffset = 8.dp
+// How far from the notch the rounded edges start
+private val BottomAppBarRoundedEdgeRadius = 4.dp

diff --git a/app/src/main/java/com/jventrib/formulainfo/ui/common/composable/TopAppBarMenu.kt b/app/src/main/java/com/jventrib/formulainfo/ui/common/composable/TopAppBarMenu.kt
@@ -1,0 +1,82 @@
+package com.jventrib.formulainfo.ui.common.composable
+
+import androidx.compose.foundation.clickable
+import androidx.compose.foundation.layout.Arrangement
+import androidx.compose.foundation.layout.Row
+import androidx.compose.foundation.layout.RowScope
+import androidx.compose.foundation.layout.fillMaxHeight
+import androidx.compose.foundation.layout.width
+import androidx.compose.material.ContentAlpha
+import androidx.compose.material.Icon
+import androidx.compose.material.LocalContentAlpha
+import androidx.compose.material.MaterialTheme
+import androidx.compose.material.ProvideTextStyle
+import androidx.compose.material.ScaffoldState
+import androidx.compose.material.TopAppBar
+import androidx.compose.material.icons.Icons
+import androidx.compose.material.icons.filled.Menu
+import androidx.compose.runtime.Composable
+import androidx.compose.runtime.CompositionLocalProvider
+import androidx.compose.runtime.rememberCoroutineScope
+import androidx.compose.ui.Alignment
+import androidx.compose.ui.Modifier
+import androidx.compose.ui.unit.dp
+import kotlinx.coroutines.launch
+
+@Composable
+fun TopAppBarMenu(
+    title: @Composable () -> Unit,
+    actions: @Composable() (RowScope.() -> Unit),
+    scaffoldState: ScaffoldState
+) {
+    val scope = rememberCoroutineScope()
+
+    TopAppBar() {
+        Row(
+            Modifier
+                .fillMaxHeight()
+                .width(28.dp),
+            verticalAlignment = Alignment.CenterVertically
+        ) {
+            CompositionLocalProvider(
+                LocalContentAlpha provides ContentAlpha.high,
+                content = {
+                    Icon(
+                        Icons.Default.Menu,
+                        "menu",
+                        modifier = Modifier.clickable(onClick = {
+                            scope.launch {
+                                scaffoldState.drawerState.apply {
+                                    if (isClosed) open() else close()
+                                }
+                            }
+                        })
+                    )
+                }
+            )
+        }
+
+        Row(
+            Modifier
+                .fillMaxHeight()
+                .weight(1f),
+            verticalAlignment = Alignment.CenterVertically
+        ) {
+            ProvideTextStyle(value = MaterialTheme.typography.h6) {
+                CompositionLocalProvider(
+                    LocalContentAlpha provides ContentAlpha.high,
+                    content = title
+                )
+            }
+        }
+
+        CompositionLocalProvider(LocalContentAlpha provides ContentAlpha.medium) {
+            Row(
+                Modifier.fillMaxHeight(),
+                horizontalArrangement = Arrangement.End,
+                verticalAlignment = Alignment.CenterVertically,
+                content = actions
+            )
+        }
+    }
+}

diff --git a/app/src/main/java/com/jventrib/formulainfo/ui/race/LapChart.kt b/app/src/main/java/com/jventrib/formulainfo/ui/race/LapChart.kt
@@ -4,7 +4,6 @@ import androidx.compose.foundation.layout.Box
 import androidx.compose.foundation.layout.padding
 import androidx.compose.material.Scaffold
 import androidx.compose.material.Text
-import androidx.compose.material.TopAppBar
 import androidx.compose.material.rememberScaffoldState
 import androidx.compose.runtime.Composable
 import androidx.compose.runtime.LaunchedEffect
@@ -25,13 +24,16 @@ import com.jventrib.formulainfo.model.aggregate.DriverAndConstructor
 import com.jventrib.formulainfo.model.db.Lap
 import com.jventrib.formulainfo.model.db.Race
 import com.jventrib.formulainfo.model.db.Result
+import com.jventrib.formulainfo.ui.common.composable.TopAppBarMenu
 import com.jventrib.formulainfo.ui.common.composable.collectAsStateWithLifecycle
+import com.jventrib.formulainfo.ui.common.toGP
 import com.jventrib.formulainfo.ui.drivers.DriverSelector
 import com.jventrib.formulainfo.ui.drivers.customShape
 import com.jventrib.formulainfo.ui.drivers.driverSelectionSaver
 import com.jventrib.formulainfo.ui.race.chart.LapPositionChart
 import com.jventrib.formulainfo.ui.race.chart.LapTimeChart
 import com.jventrib.formulainfo.ui.race.chart.LeaderIntervalChart
+import com.jventrib.formulainfo.ui.schedule.getRaceSample
 
 fun NavGraphBuilder.lapChart() {
     composable(
@@ -71,13 +73,17 @@ private fun LapChart(race: Race?, lapsByResult: Map<Result, List<Lap>>) {
     Scaffold(
         scaffoldState = scaffoldState,
         topBar = {
-            TopAppBar(
+            TopAppBarMenu(
                 title = {
-                    Text(race?.raceInfo?.let { "${it.raceName} ${it.season}" } ?: "Formula Info")
+                    Text(
+                        race?.raceInfo?.let { "${it.raceName.toGP()} ${it.season}" }
+                            ?: "Formula Info"
+                    )
                 },
                 actions = {
                     LapChartMenu(selectedChart.label) { selectedChart = it }
-                }
+                },
+                scaffoldState = scaffoldState
             )
         },
         drawerShape = customShape(),
@@ -133,5 +139,5 @@ internal fun getLapsWithStart(lapsByResult: Map<Result, List<Lap>>): Map<Result,
 @Composable
 fun LapChartPreview() {
     val lapsWithStart = getLapsWithStart(ResultSample.getLapsPerResults())
-    LapChart(race = null, lapsByResult = lapsWithStart)
+    LapChart(race = getRaceSample(1, "Barhain Grand Prix"), lapsByResult = lapsWithStart)
 }

diff --git a/app/src/main/java/com/jventrib/formulainfo/ui/standing/DriverStandingChart.kt b/app/src/main/java/com/jventrib/formulainfo/ui/standing/DriverStandingChart.kt
@@ -6,7 +6,6 @@ import androidx.compose.material.Icon
 import androidx.compose.material.IconButton
 import androidx.compose.material.Scaffold
 import androidx.compose.material.Text
-import androidx.compose.material.TopAppBar
 import androidx.compose.material.icons.Icons
 import androidx.compose.material.icons.filled.EmojiEvents
 import androidx.compose.material.rememberScaffoldState
@@ -31,6 +30,7 @@ import com.jventrib.formulainfo.model.db.Driver
 import com.jventrib.formulainfo.ui.common.composable.Chart
 import com.jventrib.formulainfo.ui.common.composable.DataPoint
 import com.jventrib.formulainfo.ui.common.composable.Serie
+import com.jventrib.formulainfo.ui.common.composable.TopAppBarMenu
 import com.jventrib.formulainfo.ui.common.composable.YOrientation
 import com.jventrib.formulainfo.ui.common.composable.collectAsStateWithLifecycle
 import com.jventrib.formulainfo.ui.drivers.DriverSelector
@@ -74,7 +74,6 @@ private fun DriverStandingChart(
     onStandingClicked: () -> Unit
 ) {
     val scaffoldState = rememberScaffoldState()
-
     val selectedDrivers =
         rememberSaveable(standings, key = "standingDrivers", saver = driverSelectionSaver) {
             logcat("Standing") { "Init standings: ${standings.count()}" }
@@ -84,7 +83,7 @@ private fun DriverStandingChart(
     Scaffold(
         scaffoldState = scaffoldState,
         topBar = {
-            TopAppBar(
+            TopAppBarMenu(
                 title = {
                     Text(
                         "$season standing",
@@ -98,7 +97,8 @@ private fun DriverStandingChart(
                     ) {
                         Icon(imageVector = Icons.Filled.EmojiEvents, contentDescription = null)
                     }
-                }
+                },
+                scaffoldState = scaffoldState
             )
         },
         drawerShape = customShape(),

diff --git a/app/src/main/java/com/jventrib/formulainfo/ui/drivers/DriverSelector.kt b/app/src/main/java/com/jventrib/formulainfo/ui/drivers/DriverSelector.kt
@@ -67,6 +67,7 @@ fun DriverSelector(
     Column(
         horizontalAlignment = Alignment.CenterHorizontally,
         modifier = Modifier
+            .padding(top = 56.dp)
             .width(IntrinsicSize.Max)
             .verticalScroll(scrollState)
     ) {
@@ -174,7 +175,7 @@ fun customShape() = object : Shape {
         return Outline.Rectangle(
             Rect(
                 0f,
-                0f,
+                with(density) { 56.dp.toPx() },
                 with(density) { 100.dp.toPx() } /* width */,
                 size.height /* height */
             )

diff --git a/app/src/main/java/com/jventrib/formulainfo/ui/common/StringFunctions.kt b/app/src/main/java/com/jventrib/formulainfo/ui/common/StringFunctions.kt
@@ -63,3 +63,5 @@ fun String.toDuration(): Long {
             .plus(millis.milliseconds.inWholeMilliseconds)
     }
 }
+
+fun String.toGP() = replace("Grand Prix", "GP")
